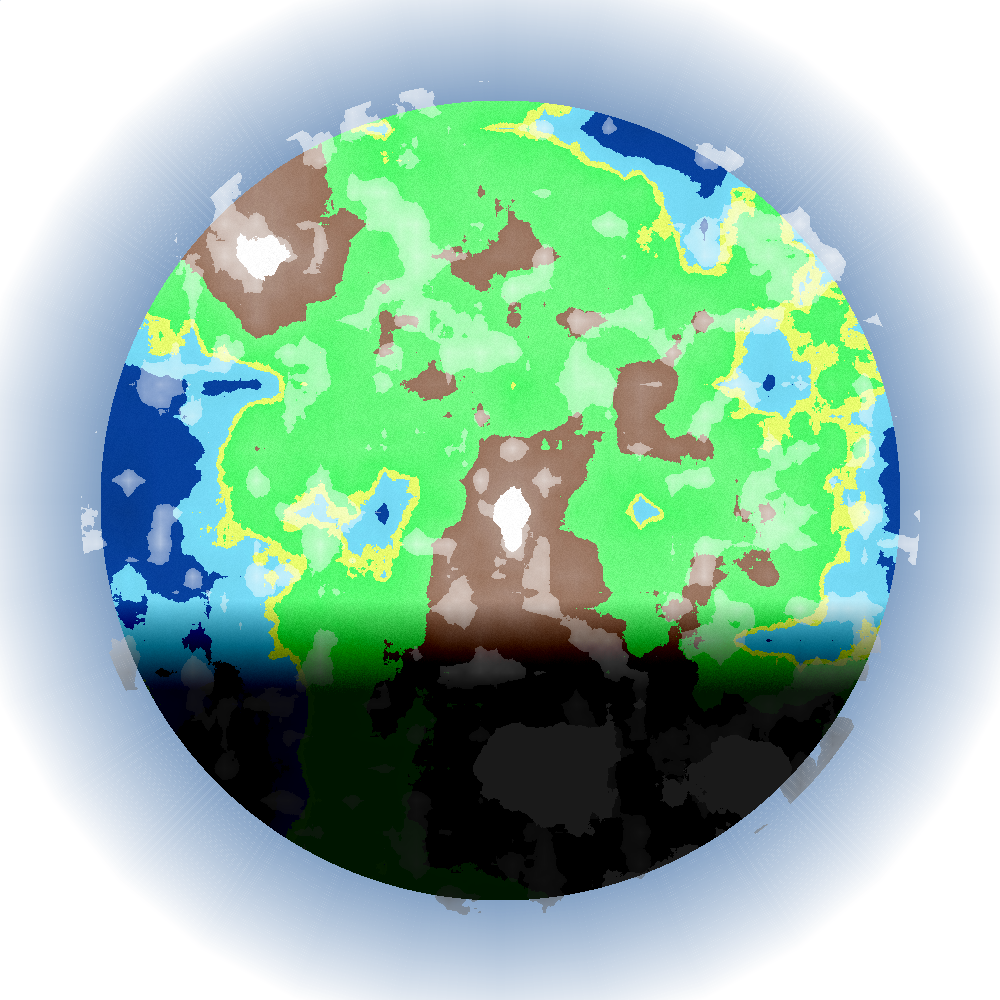
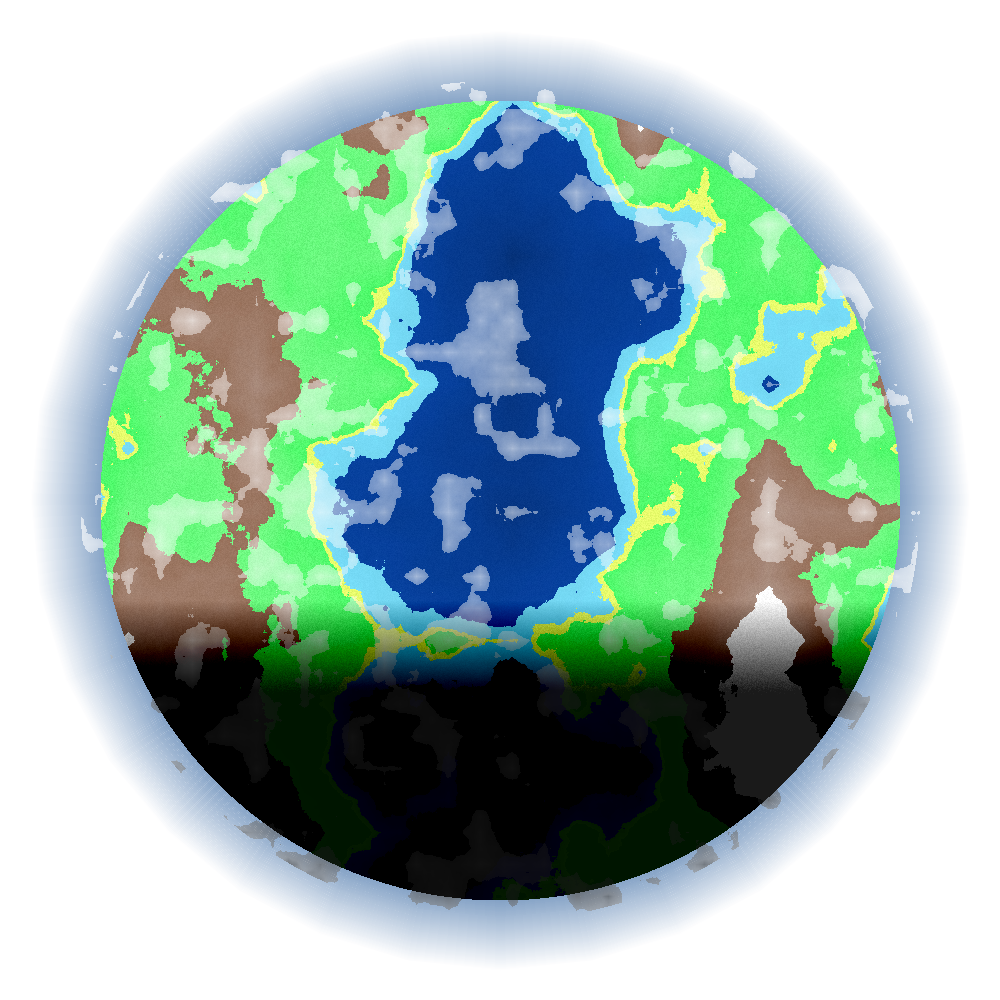
Overworld.png

diff --git a/test.js b/test.js
@@ -14,20 +14,20 @@ let colors = {
     cloud_opacity: 70,
     atmosphere_color: "#4F7AAD",
     atmosphere_opacity: 70,
-    shading_level: 2,
+    shading_level: 1.2,
     add_detail: true,
 }
 let planet_options = {
-    planet_radius: 80,
-    atmosphere_radius: 100,
+    planet_radius: 400,
+    atmosphere_radius: 500,
     sea_level: 0.42,
     shore_level: 0.48,
     beach_level: 0.5,
     mountain_level: 0.62,
     mountain_top_level: 0.75,
     cloud_level: 0.62,
-    cloud_radius: 90,
-    craters: true,
+    cloud_radius: 420,
+    craters: false,
     clouds: true,
     atmosphere: true
 }
@@ -94,7 +94,7 @@ let gasColors = {
     add_detail: true,
 }
 
-let size = 200;
+let size = 1000;
 
 //let image = Planet.generateGasGiant(size, gasOptions, gasColors);
 let image = Planet.generatePlanet(size, planet_options, colors, generator_options, cloud_generator);
